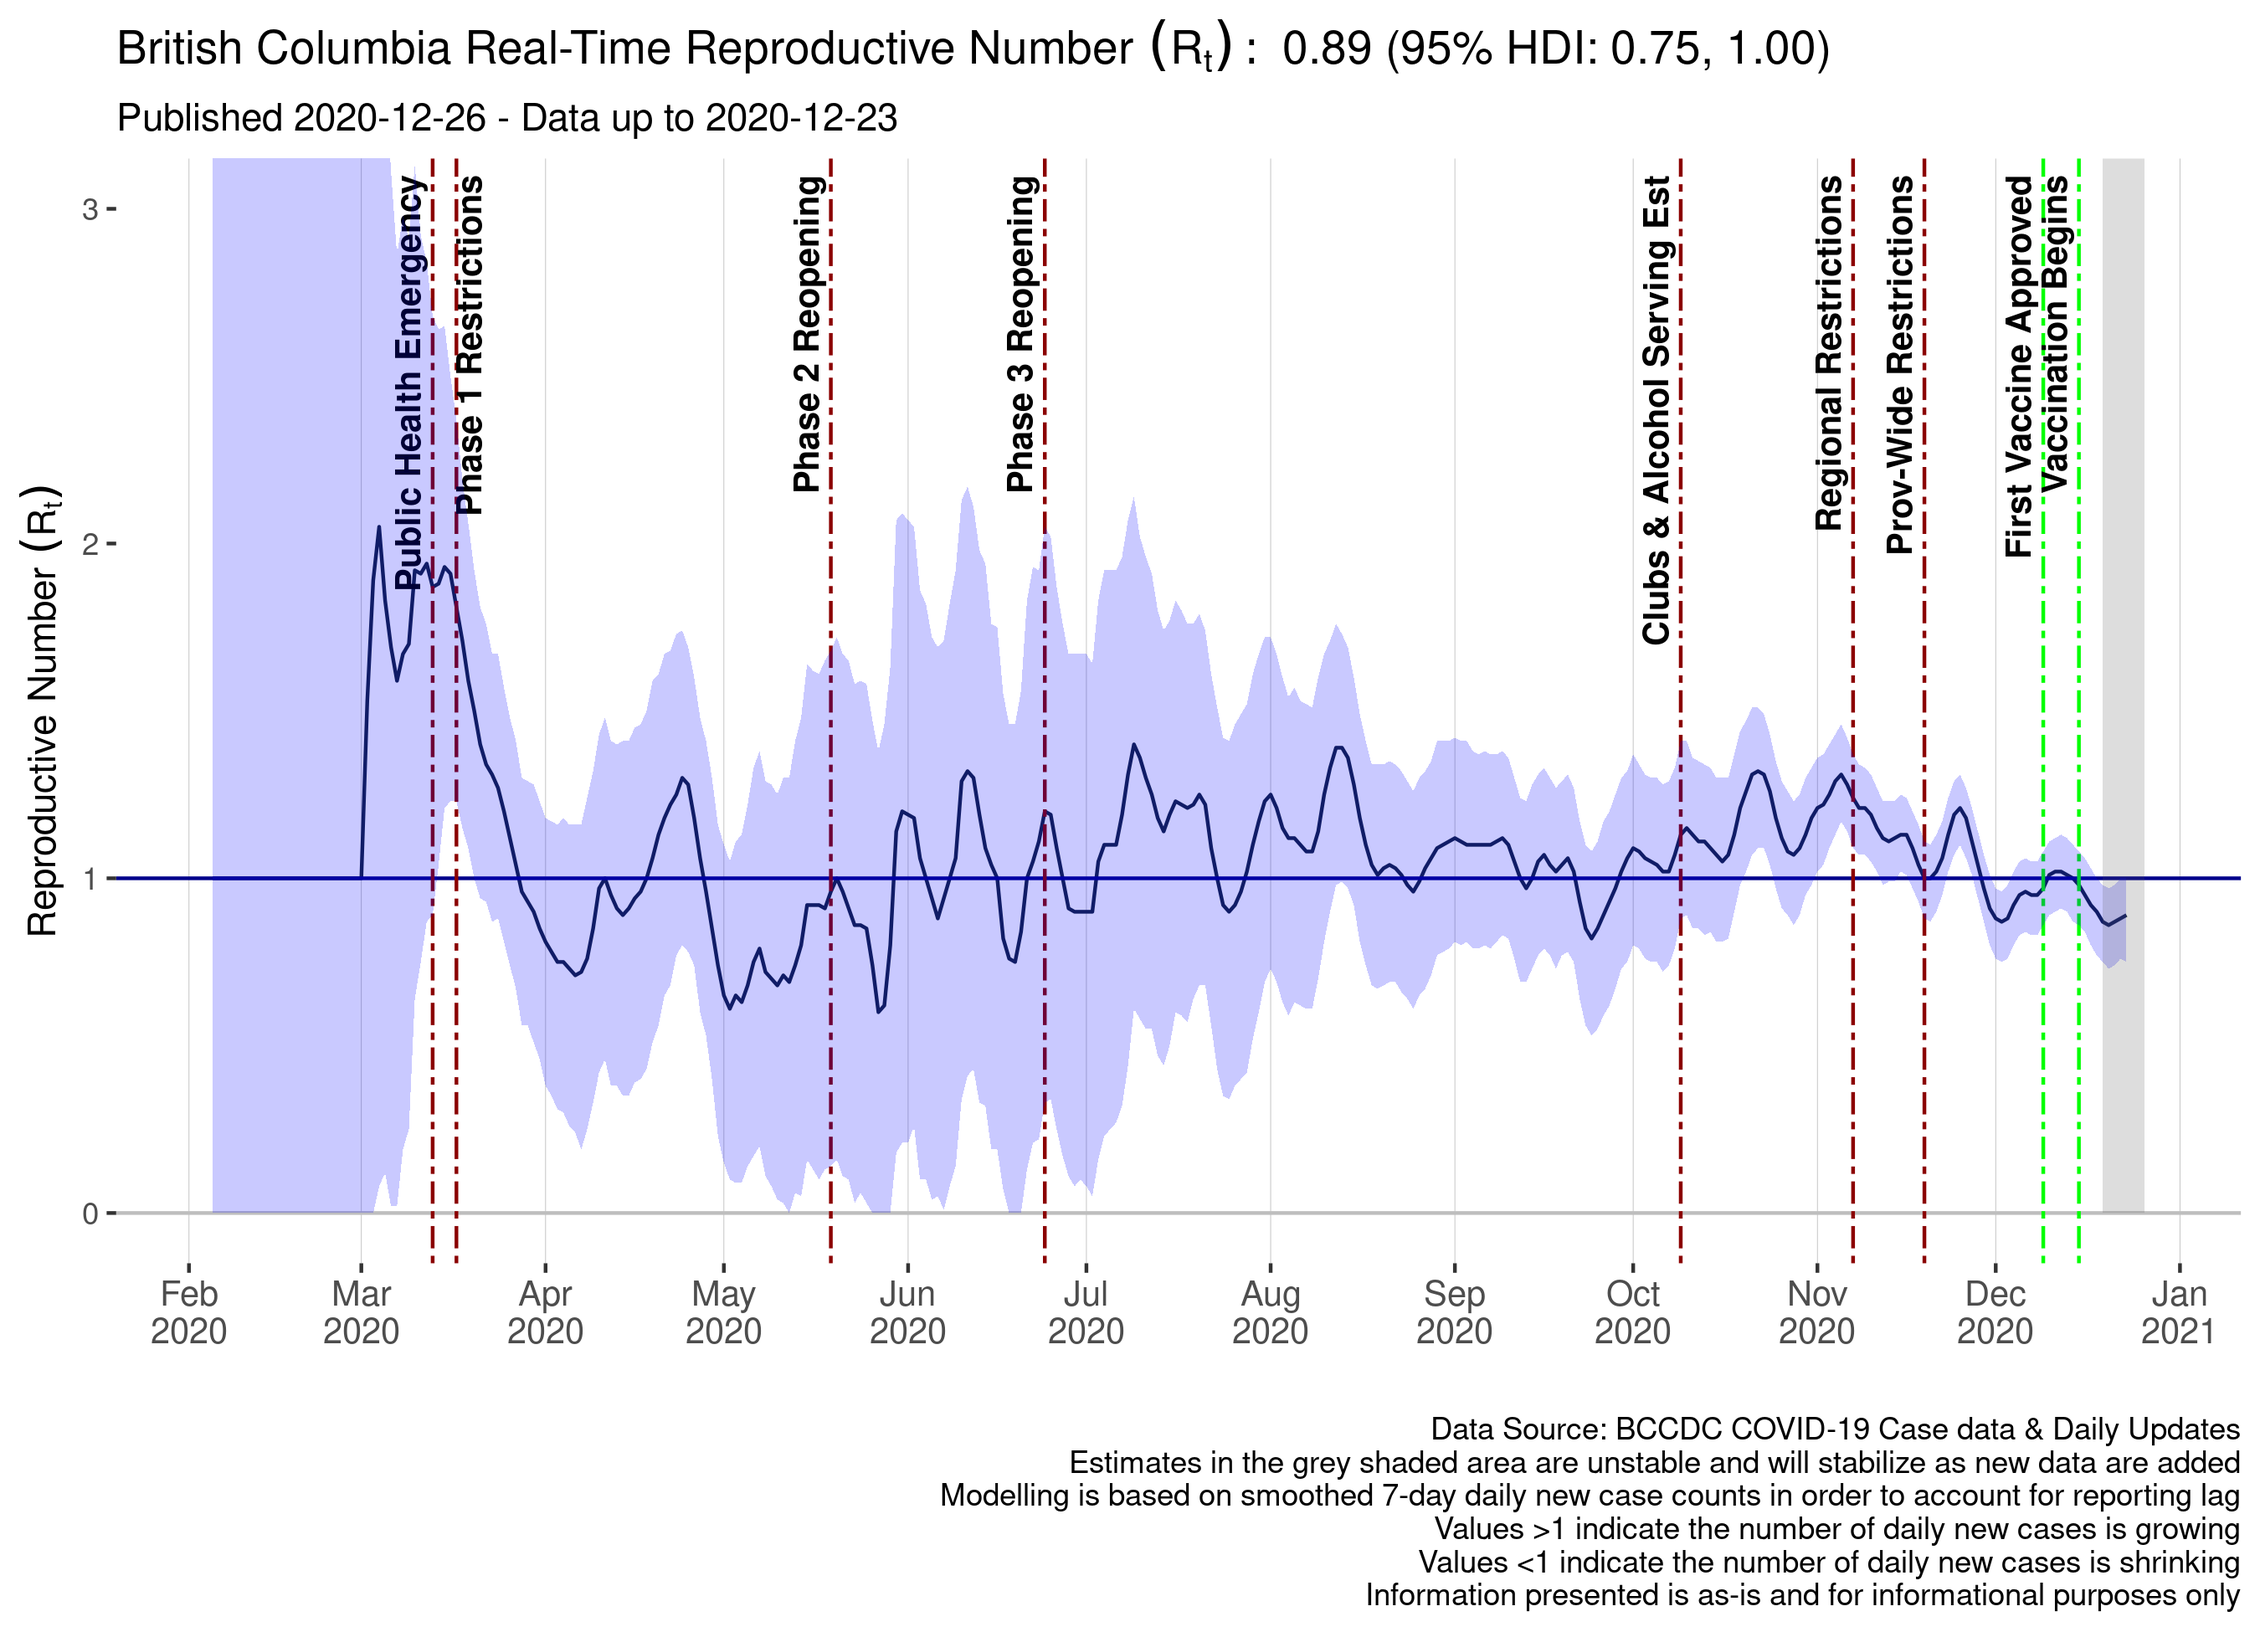
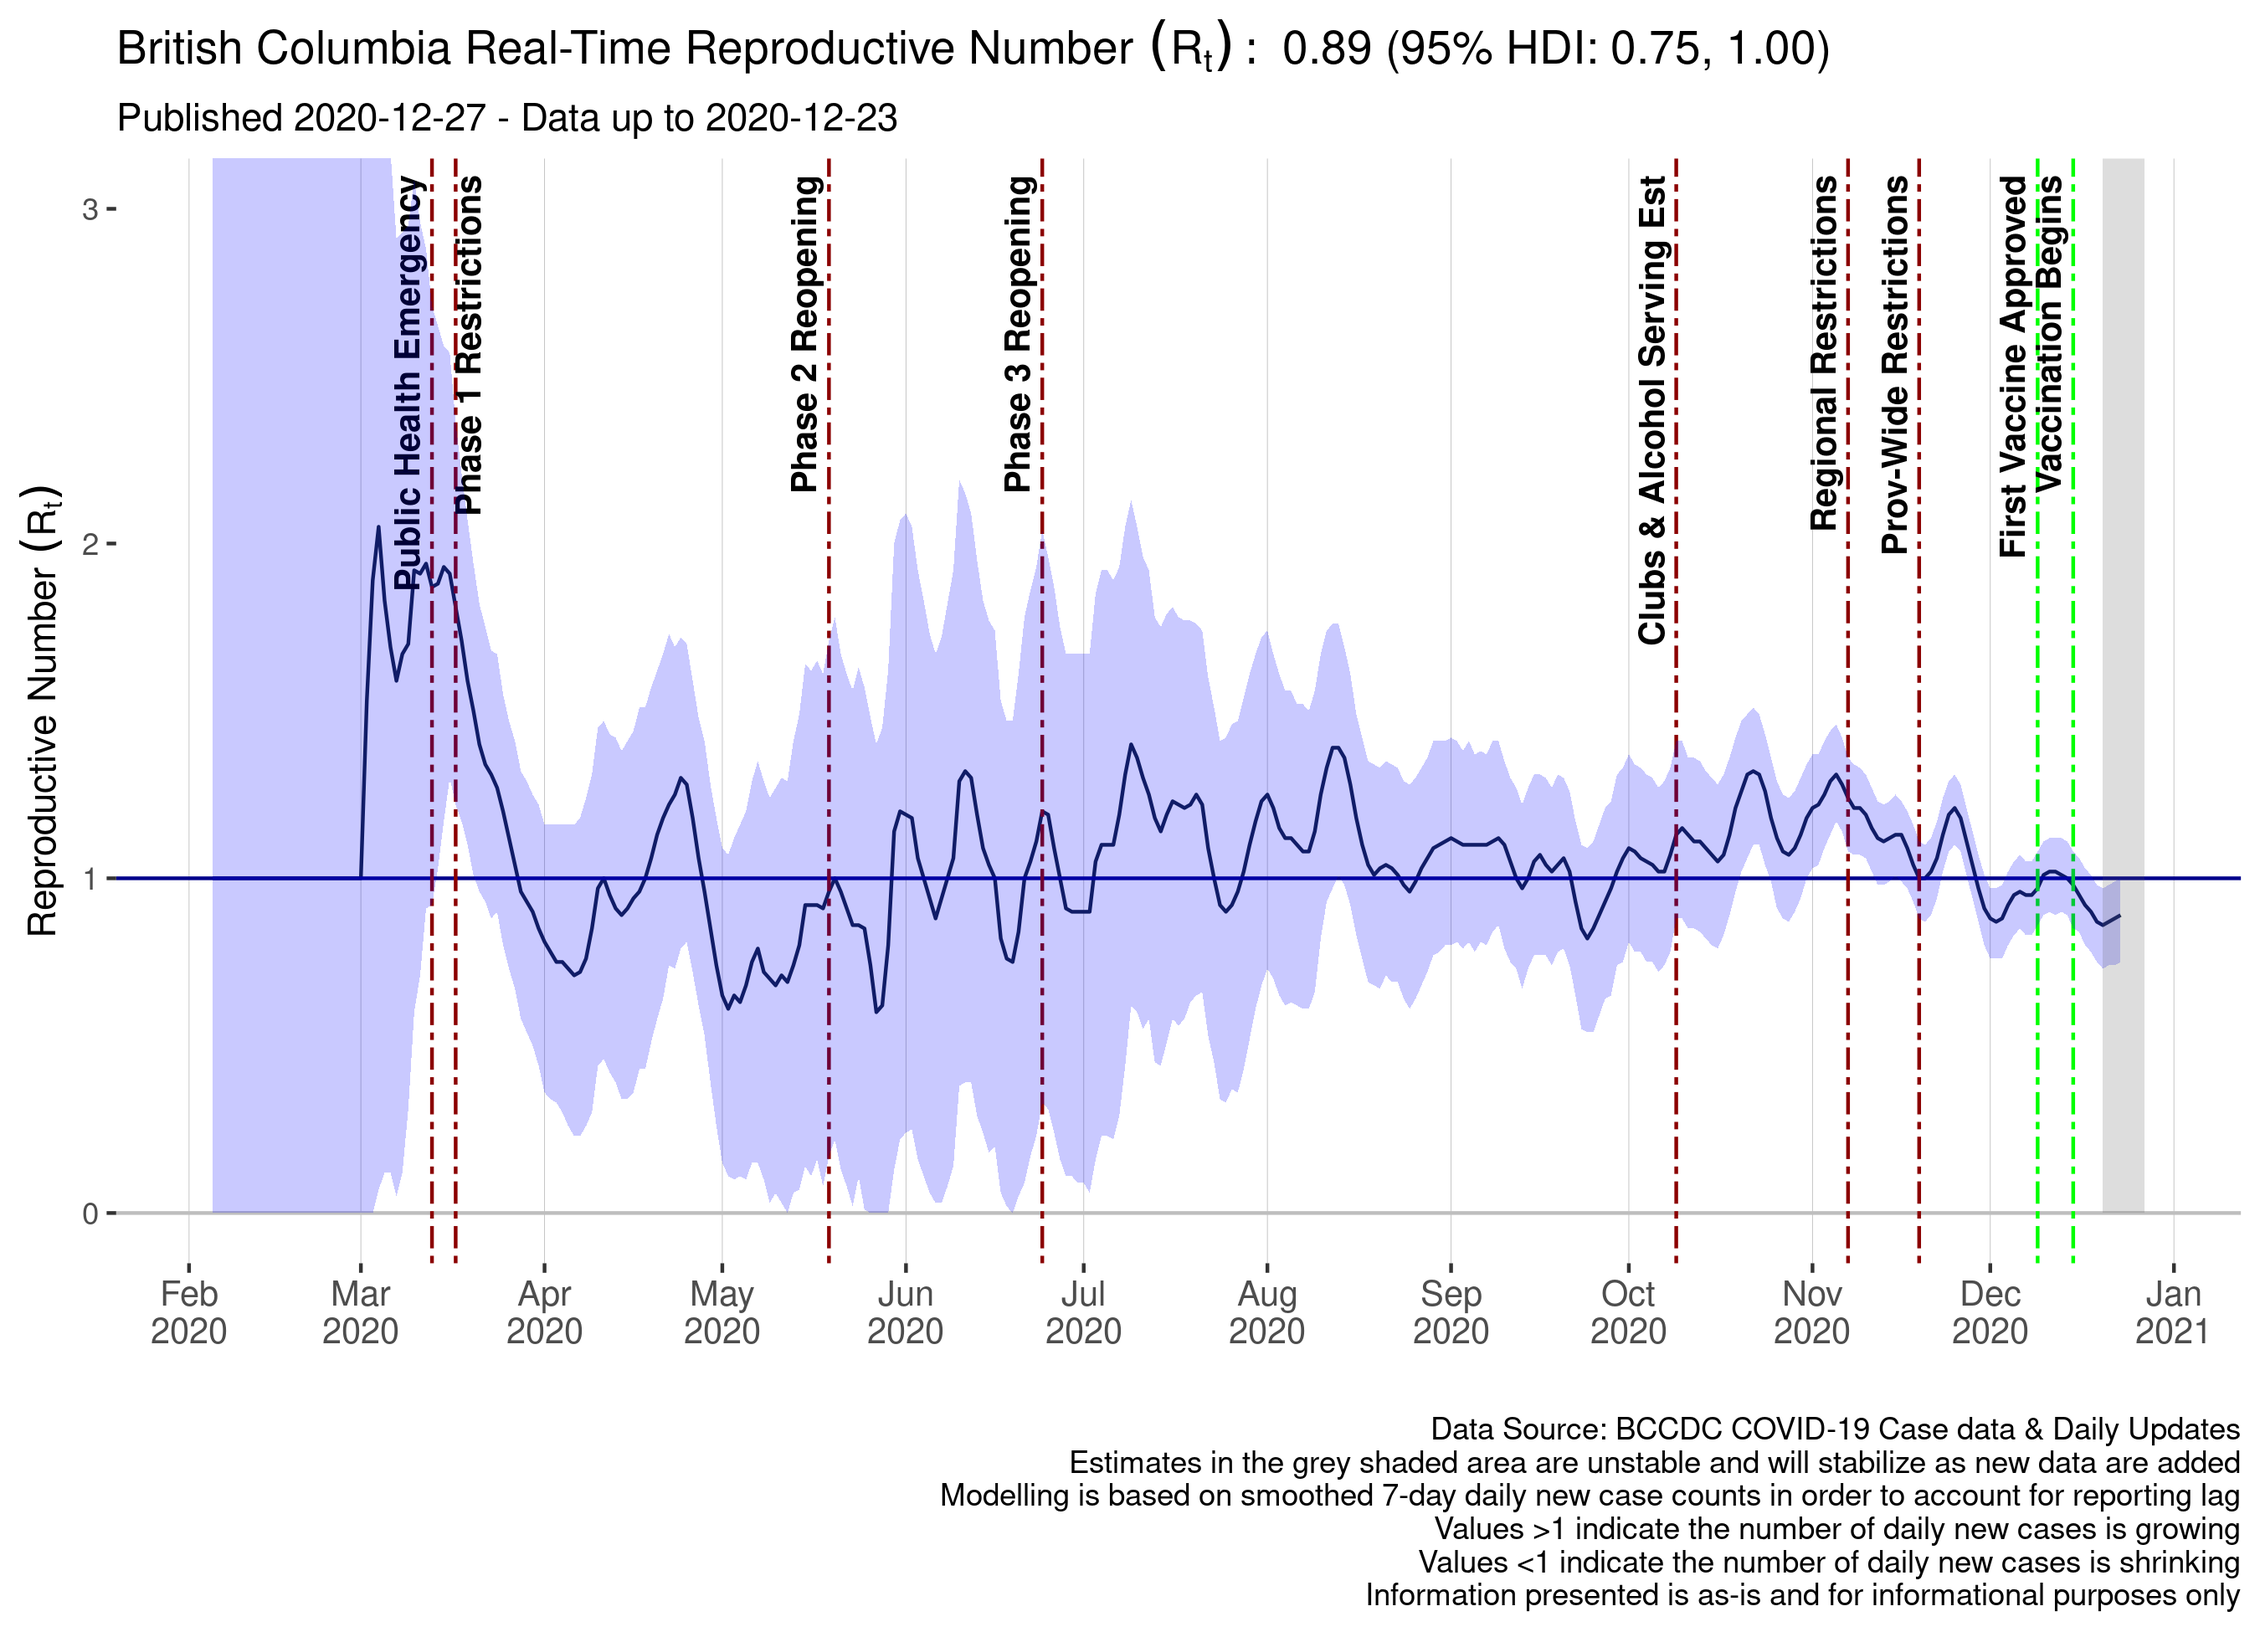
Deploying to gh-pages from  @ 4a5c96fd5e9e680699fe07b7d18f3016c1c38bd9 🚀

diff --git a/index.html b/index.html
@@ -27,7 +27,7 @@
 <body>
   <img src="rt.png" alt="BC rt Value">
   <p>
-    <small>Generated: Fri Dec 25 18:14:15 PST 2020</small>
+    <small>Generated: Sat Dec 26 18:18:27 PST 2020</small>
   </p>
 </body>
 </html>
